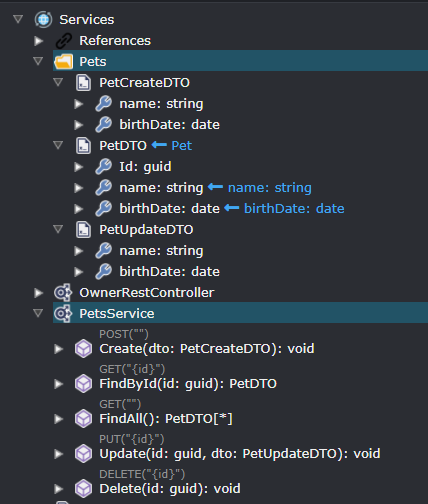
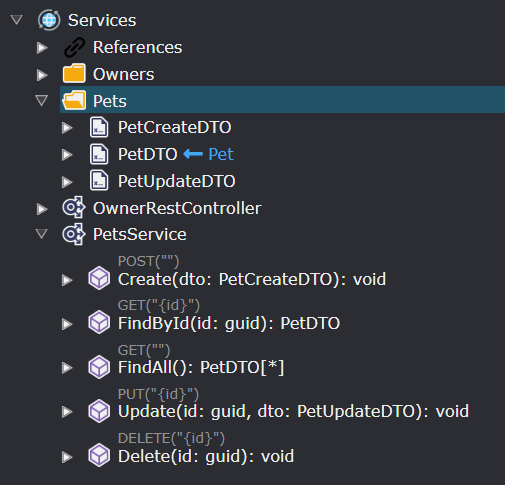
This will unstuck anyone who is currently working on the Pet clinic tutorial
AB#940

Changed region(s): [[0.0304, 0.0, 1.0, 1.0], [0.0607, 0.4021, 0.0911, 0.4948], [0.0607, 0.5567, 0.0911, 0.6186]]

diff --git a/articles/getting-started/tutorials/create-a-sample-app/03-create-crud-services/create-crud-services.md b/articles/getting-started/tutorials/create-a-sample-app/03-create-crud-services/create-crud-services.md
@@ -12,9 +12,21 @@ Intent Architect was built for automating the most complex conceivable use cases
 
 ![The Additional CRUD Support component for the Clean Architecture .NET Application Template](images/application-template-additional-crud-support-component.png)
 
-## Create the additional services
+## Preparation for additional services
+
+To disambiguate the DTOs that already exist from the new ones being created, we're going to move them into their own folder.
 
 - Ensure you are in the `Services` designer.
+- Create a Folder called `Owners`.
+- Select all the DTOs using the shift-click method.
+- Drag all the selected DTOs into the `Owners` folder.
+
+It should look like this:
+
+![Preparation for additional services](images/preparation-for-additional-services.png)
+
+## Create the additional services
+
 - Right-click the `Services` tree node.
 - Select the `Create CRUD Operations` context menu option.
 

diff --git a/articles/module-building/designers/designer-modelling/designer-modelling.md b/articles/module-building/designers/designer-modelling/designer-modelling.md
@@ -144,7 +144,7 @@ This mapping can only be created once there is a `Mapping Setting`. This table d
 
 ![Element Extension](images/element-extension.png)
 
-With the Type set to an instance of an Element outside of the current designer (ensuring that the relevant package is referenced), this Element allows you to extend it by adding nested Elements, mappings, diagrams, etc. [See Element Settings](#element-settings) for more info.
+With the Type set to an instance of an Element outside of the current designer (ensuring that the relevant package is referenced), this Element allows you to extend it by adding nested Elements, mappings, diagrams, etc. [See Element Settings](#the-element-settings-element) for more info.
 
 ### Association Types
 
